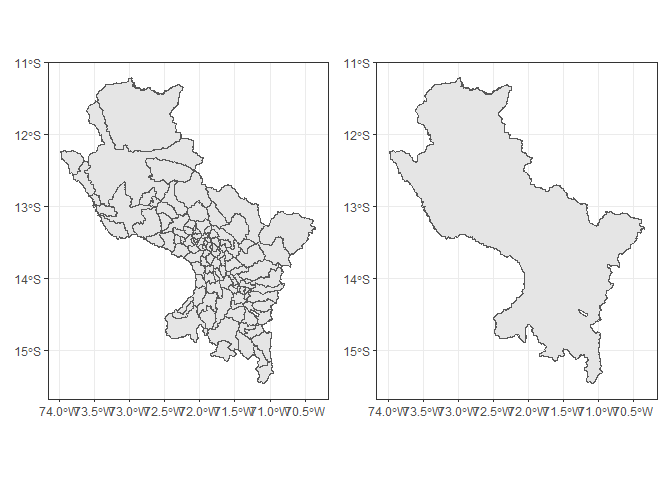
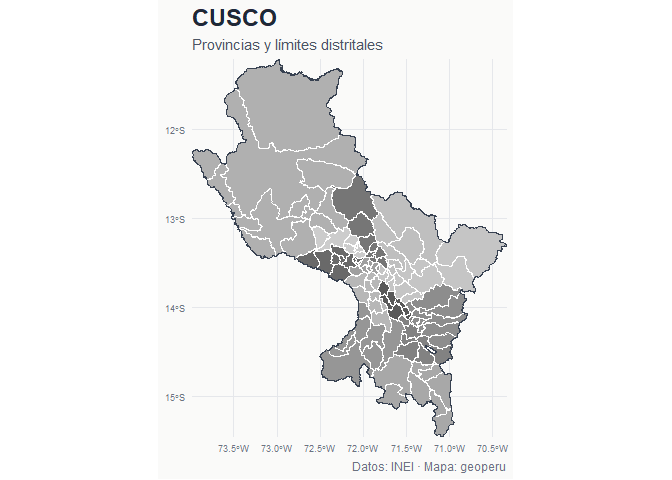
readme

diff --git a/README.md b/README.md
@@ -42,48 +42,132 @@ you can use the `get_geo_peru()` function.
 ``` r
 
 library(geoperu)
+#> This is geoperu 0.0.1
 
 cusco <- geoperu::get_geo_peru(geography = "CUSCO", 
-                                  level = "dep",
-                                  simplified = FALSE)
+                               level = "dep",
+                               simplified = FALSE,
+                               showProgress = FALSE)
 cusco
+#> Simple feature collection with 112 features and 4 fields
+#> Geometry type: MULTIPOLYGON
+#> Dimension:     XY
+#> Bounding box:  xmin: -73.9811 ymin: -15.45829 xmax: -70.34507 ymax: -11.21229
+#> Geodetic CRS:  WGS 84
+#> First 10 features:
+#>    departamento    provincia       distrito        capital
+#> 1         CUSCO      ESPINAR       PICHIGUA       PICHIGUA
+#> 2         CUSCO      ESPINAR    SUYCKUTAMBO SUYCKUTAMBO /5
+#> 3         CUSCO      ESPINAR       PALLPATA  HECTOR TEJADA
+#> 4         CUSCO      ESPINAR        ESPINAR          YAURI
+#> 5         CUSCO QUISPICANCHI ANDAHUAYLILLAS ANDAHUAYLILLAS
+#> 6         CUSCO        CALCA          LARES          LARES
+#> 7         CUSCO CHUMBIVILCAS         LLUSCO         LLUSCO
+#> 8         CUSCO      ESPINAR        OCORURO        OCORURO
+#> 9         CUSCO        CALCA          CALCA          CALCA
+#> 10        CUSCO      ACOMAYO   MOSOC LLACTA   MOSOC LLACTA
+#>                              geom
+#> 1  MULTIPOLYGON (((-71.18148 -...
+#> 2  MULTIPOLYGON (((-71.51302 -...
+#> 3  MULTIPOLYGON (((-70.97839 -...
+#> 4  MULTIPOLYGON (((-71.36934 -...
+#> 5  MULTIPOLYGON (((-71.6563 -1...
+#> 6  MULTIPOLYGON (((-71.90762 -...
+#> 7  MULTIPOLYGON (((-72.10355 -...
+#> 8  MULTIPOLYGON (((-71.05453 -...
+#> 9  MULTIPOLYGON (((-71.87228 -...
+#> 10 MULTIPOLYGON (((-71.43954 -...
 cusco_simplified <- geoperu::get_geo_peru(geography = "CUSCO", 
-                                  level = "dep",
-                                  simplified = TRUE)
+                                          level = "dep",
+                                          simplified = TRUE,
+                                          showProgress = FALSE)
 cusco_simplified
+#> Simple feature collection with 1 feature and 1 field
+#> Geometry type: POLYGON
+#> Dimension:     XY
+#> Bounding box:  xmin: -73.9811 ymin: -15.45829 xmax: -70.34507 ymax: -11.21229
+#> Geodetic CRS:  WGS 84
+#>   departamento                           geom
+#> 1        CUSCO POLYGON ((-70.8315 -14.0698...
 
 prov_sf <- geoperu::get_geo_peru(geography = "ANTA",
                                  level = "prov", 
-                                 simplified = TRUE)
+                                 simplified = TRUE,
+                                 showProgress = FALSE)
 prov_sf
+#> Simple feature collection with 1 feature and 1 field
+#> Geometry type: POLYGON
+#> Dimension:     XY
+#> Bounding box:  xmin: -72.77286 ymin: -13.71406 xmax: -72.00001 ymax: -13.28477
+#> Geodetic CRS:  WGS 84
+#>   provincia                           geom
+#> 1      ANTA POLYGON ((-72.11767 -13.396...
 islay_sf <- geoperu::get_geo_peru(geography = "ISLAY",
-                                 level = "prov", 
-                                 simplified = FALSE)
+                                  level = "prov",
+                                  simplified = FALSE,
+                                  showProgress = FALSE)
 islay_sf
+#> Simple feature collection with 6 features and 5 fields
+#> Geometry type: MULTIPOLYGON
+#> Dimension:     XY
+#> Bounding box:  xmin: -72.22384 ymin: -17.28501 xmax: -71.30225 ymax: -16.67504
+#> Geodetic CRS:  WGS 84
+#>              tag departamento provincia        distrito          capital
+#> 1 arequipa_islay     AREQUIPA     ISLAY PUNTA DE BOMBON  PUNTA DE BOMBON
+#> 2 arequipa_islay     AREQUIPA     ISLAY           MEJIA            MEJIA
+#> 3 arequipa_islay     AREQUIPA     ISLAY           ISLAY ISLAY (MATARANI)
+#> 4 arequipa_islay     AREQUIPA     ISLAY      COCACHACRA       COCACHACRA
+#> 5 arequipa_islay     AREQUIPA     ISLAY   DEAN VALDIVIA         LA CURVA
+#> 6 arequipa_islay     AREQUIPA     ISLAY        MOLLENDO         MOLLENDO
+#>                             geom
+#> 1 MULTIPOLYGON (((-71.44018 -...
+#> 2 MULTIPOLYGON (((-71.8306 -1...
+#> 3 MULTIPOLYGON (((-71.99808 -...
+#> 4 MULTIPOLYGON (((-71.48244 -...
+#> 5 MULTIPOLYGON (((-71.76488 -...
+#> 6 MULTIPOLYGON (((-71.66772 -...
 ```
 
-To visualize the retrieved geospatial information with the
-`get_geo_peru()` function from the geoperu package, you can use various
-tools in R. A common option is to use the `ggplot2` library along with
-`sf` object visualization functionality.
-
-Here’s a basic example of how to visualize the data:
+The objects returned by `geoperu` work directly with `ggplot2`. A
+restrained grey scale, fine district borders, and a geographic grid
+produce a clear, technical map of Cusco:
 
 ``` r
-library(patchwork)
 library(ggplot2)
-plot1 <- cusco |> 
-  ggplot() +
-  geom_sf() +
-  theme_bw()
 
-plot2 <- cusco_simplified |> 
-  ggplot() +
-  geom_sf() +
-  theme_bw()
-
-plot1 + plot2
+ggplot() +
+  geom_sf(
+    data = cusco,
+    aes(fill = provincia),
+    color = "#FFFFFF",
+    linewidth = 0.15
+  ) +
+  geom_sf(
+    data = cusco_simplified,
+    fill = NA,
+    color = "#374151",
+    linewidth = 0.7
+  ) +
+  scale_fill_grey(start = 0.35, end = 0.8, guide = "none") +
+  coord_sf(expand = FALSE) +
+  labs(
+    title = "CUSCO",
+    subtitle = "Provincias y límites distritales",
+    caption = "Datos: INEI · Mapa: geoperu"
+  ) +
+  theme_minimal(base_size = 11) +
+  theme(
+    plot.background = element_rect(fill = "#FAFAF9", color = NA),
+    panel.background = element_rect(fill = "#FAFAF9", color = NA),
+    panel.grid = element_line(color = "#E5E7EB", linewidth = 0.3),
+    axis.text = element_text(color = "#6B7280", size = 7),
+    plot.title = element_text(color = "#1F2937", size = 18, face = "bold"),
+    plot.subtitle = element_text(color = "#4B5563"),
+    plot.caption = element_text(color = "#6B7280")
+  )
 ```
+
+<img src="man/figures/README-unnamed-chunk-2-1.png" alt="" width="100%" />
 
 `geoperu` also provides access to spatial information of natural
 protected areas in Peru. These areas, managed and declared by the
@@ -93,14 +177,43 @@ allows users to download spatial data representing these protected areas
 directly into their R environment.
 
 ``` r
-manu <- get_anp_peru(anp = "manu")
+manu <- get_anp_peru(anp = "manu", showProgress = FALSE)
 manu
+#> Simple feature collection with 1 feature and 4 fields
+#> Geometry type: POLYGON
+#> Dimension:     XY
+#> Bounding box:  xmin: -72.41719 ymin: -13.2059 xmax: -70.85217 ymax: -11.31585
+#> Geodetic CRS:  WGS 84
+#>          anp_cate anp_nombre anp_sect              anp_ubpo
+#> 1 Parque Nacional       Manu     <NA> Cusco y Madre de Dios
+#>                             geom
+#> 1 POLYGON ((-71.36212 -11.656...
 
 manu |> 
   ggplot() +
-  geom_sf() +
-  theme_bw()
+  geom_sf(fill = "#AAB7B0", color = "#3F5148", linewidth = 0.7) +
+  coord_sf(expand = FALSE) +
+  labs(
+    title = "PARQUE NACIONAL\nDEL MANU",
+    subtitle = "Cusco y Madre de Dios",
+    caption = "Datos: SERNANP · Mapa: geoperu"
+  ) +
+  theme_minimal(base_size = 11) +
+  theme(
+    plot.background = element_rect(fill = "#FAFAF9", color = NA),
+    panel.background = element_rect(fill = "#FAFAF9", color = NA),
+    panel.grid = element_line(color = "#E5E7EB", linewidth = 0.3),
+    axis.text = element_text(color = "#6B7280", size = 7),
+    plot.title = element_text(
+      color = "#26332D", size = 16, face = "bold", hjust = 0,
+      lineheight = 0.9
+    ),
+    plot.subtitle = element_text(color = "#526159"),
+    plot.caption = element_text(color = "#6B7280")
+  )
 ```
 
-- You can customize the plot by adding additional layers, adjusting
-  styles, and adding labels according to your specific needs.
+<img src="man/figures/README-unnamed-chunk-3-1.png" alt="" width="100%" />
+
+These maps use only `ggplot2`; colors, typography, and line widths can
+be adapted without modifying the spatial data.
